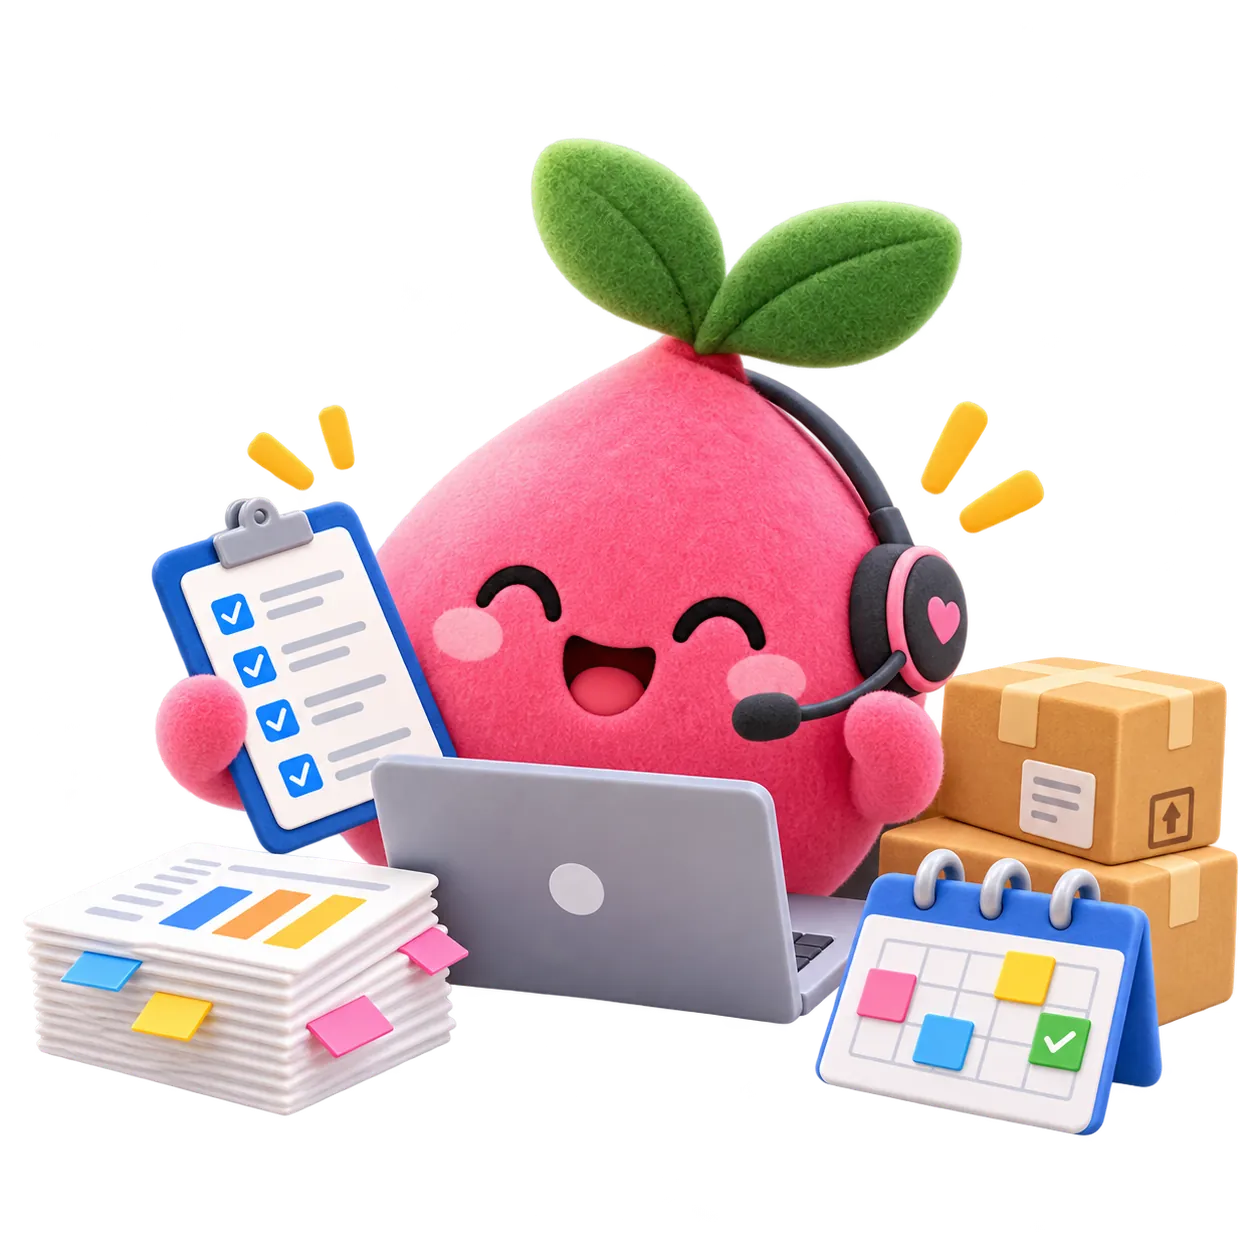
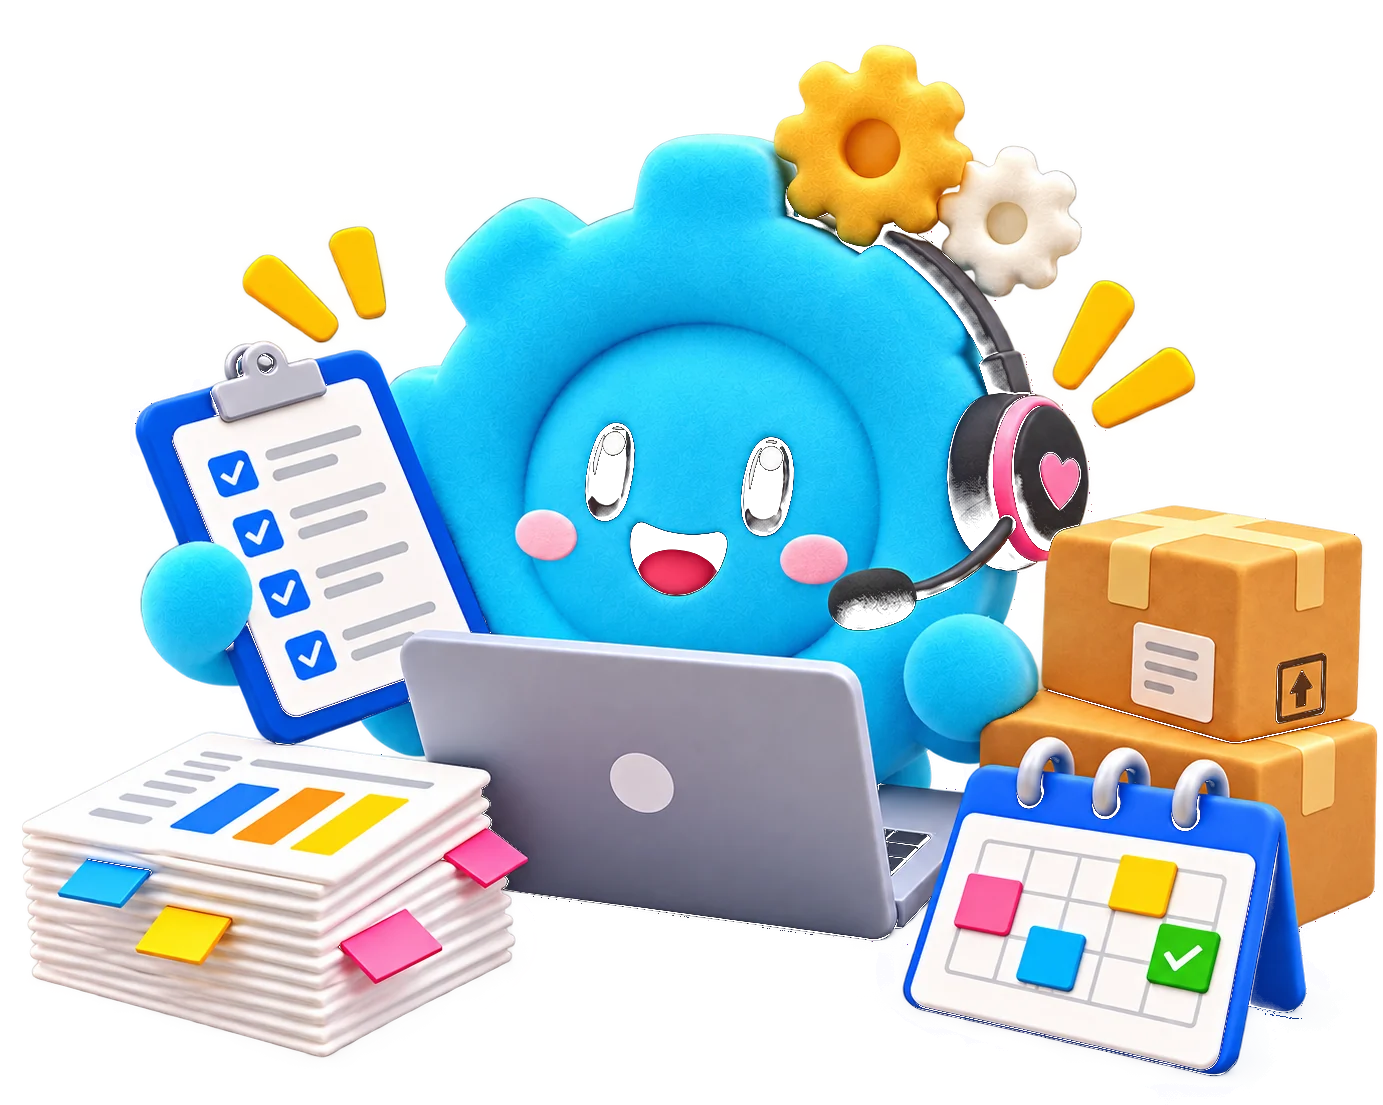
Update Government page built-section illustration to match Figma.
Replace the public-sector art asset and size it to the design spec.

diff --git a/src/index.css b/src/index.css
@@ -5933,6 +5933,9 @@ a{text-decoration:none;color:inherit;}
   height:auto;
   object-fit:contain;
 }
+.enterprise-page--government .enterprise-built-art img{
+  width:min(422px,100%);
+}
 .enterprise-page--enterprise .reports-stack-wrap::after,
 .enterprise-page--enterprise .reports-cta-wrap,
 .enterprise-page--government .reports-stack-wrap::after,
